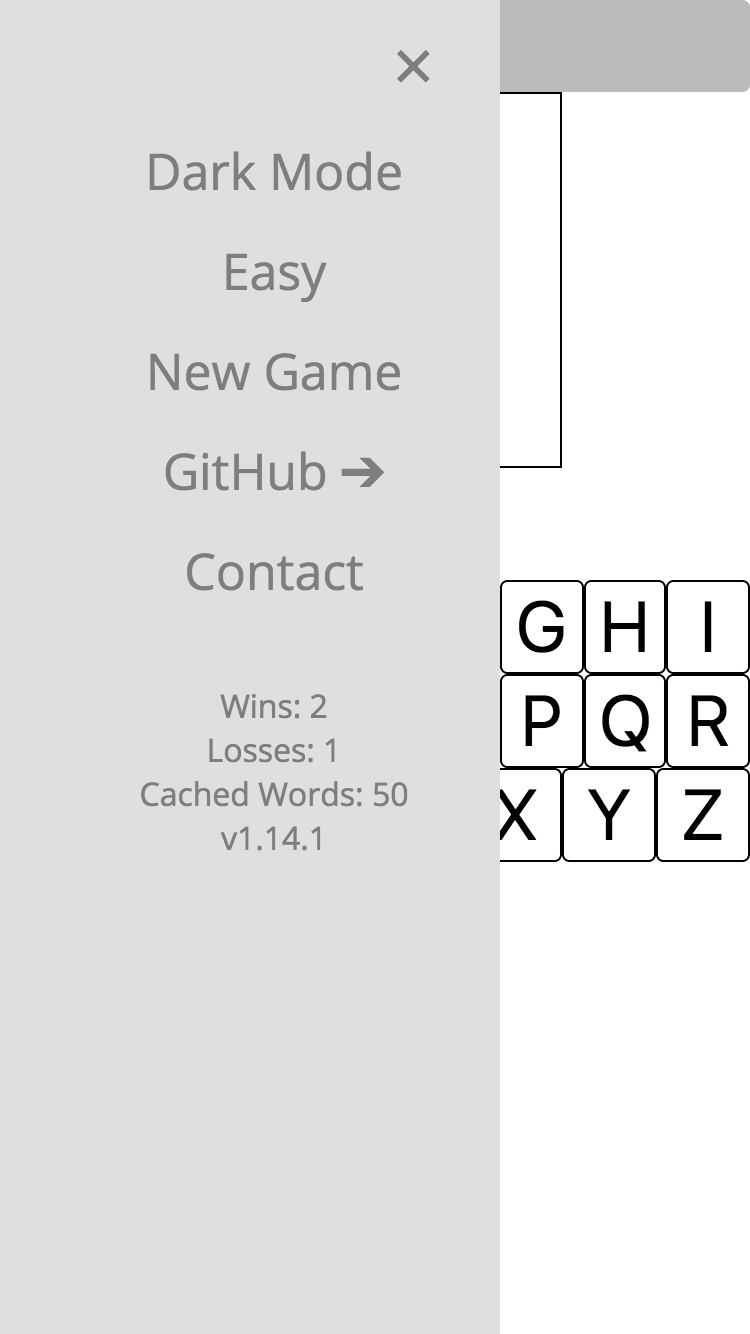
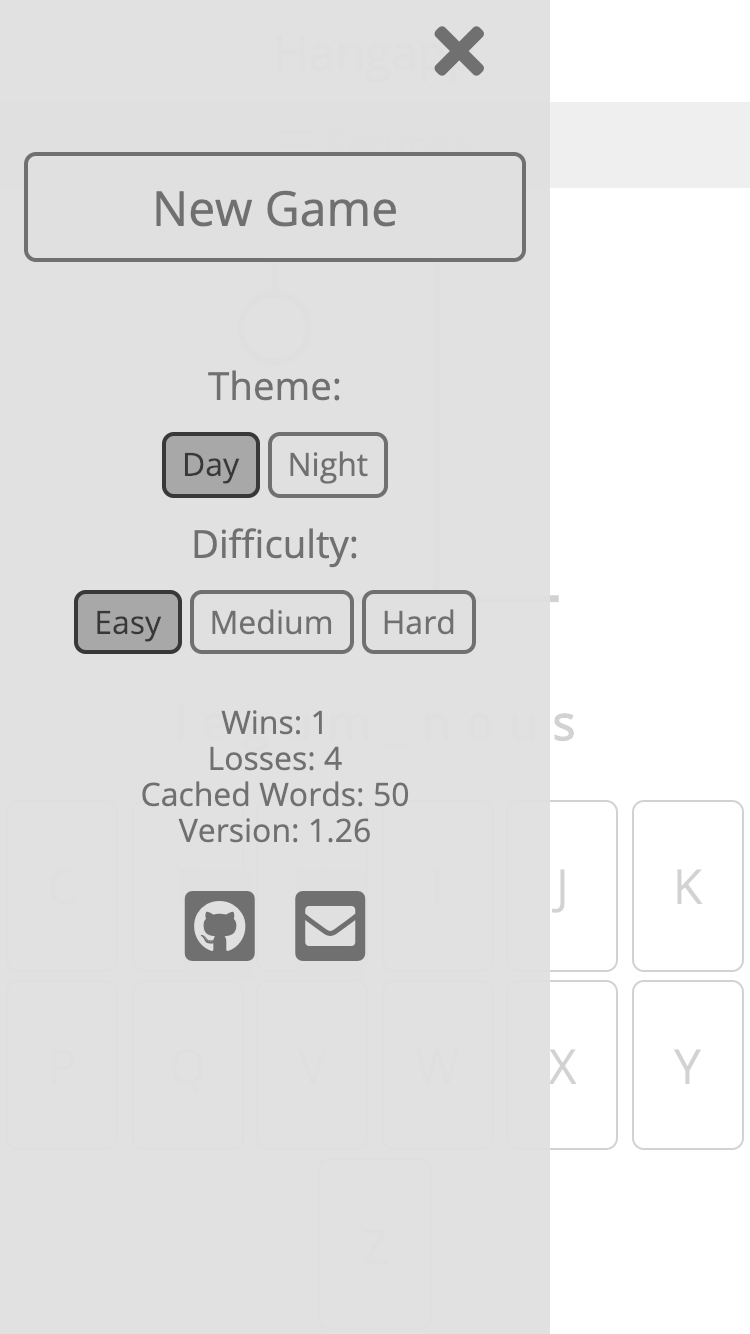
Finishing touches
- Update screenshots
- Increase font size on the modal

diff --git a/assets/js/game.js b/assets/js/game.js
@@ -44,6 +44,9 @@ document.addEventListener('DOMContentLoaded', () => {
 			return false;
 		},
 		choose: (d) => {
+			if(Data.difficulty === d) {
+				return true;
+			}
 			if(hasGuessed()) {
 				if(Difficulty.confirmChange()) {
 					Data.difficulty = d;
@@ -118,7 +121,7 @@ document.addEventListener('DOMContentLoaded', () => {
 		let letter = '';
 
 		if(event.key === undefined) {
-			if(event.target.tagName === 'BUTTON') {
+			if(event.target.tagName === 'BUTTON' && event.target.textContent != 'New Game') {
 				letter = event.target.textContent.toLowerCase();
 			}
 		} else {
@@ -303,7 +306,7 @@ document.addEventListener('DOMContentLoaded', () => {
 		}
 
 		let wrongGuess = 0;
-		if(!isGuessedLetter(letter)) {
+		if(letter.length < 2 && !isGuessedLetter(letter)) {
 			Data.guessedLetters.push(letter);
 			for(let t = 0; t < Data.answer.length; t += 1) {
 				if(letter === Data.answer[t]) {

diff --git a/assets/css/style.css b/assets/css/style.css
@@ -541,25 +541,24 @@ svg {
 @media screen and (min-width: 568px) and (orientation: landscape) {
   .modal-content {
     width: 70%;
-    font-size: 20px;
   }
 }
 @media (min-width: 768px) {
   .modal-content {
     width: 60%;
+    max-width: 800px;
   }
+}
+
+.modal-content,
+.modal-content button {
+  font-size: 1.2em;
 }
 
 .modal-content button {
   width: auto;
   margin: 0 auto;
   padding: 0.5em 1em;
-  font-size: 16px;
-}
-@media screen and (min-width: 568px) and (orientation: landscape) {
-  .modal-content button {
-    font-size: 20px;
-  }
 }
 
 .game-screen {

diff --git a/assets/scss/components/_grid.scss b/assets/scss/components/_grid.scss
@@ -18,21 +18,22 @@
   padding: 0 1em;
   @media screen and (min-width: 568px) and (orientation: landscape) {
     width: 70%;
-    font-size: 20px;
   }
   @media (min-width: 768px) {
     width: 60%;
+    max-width: 800px;
   }
+}
+
+.modal-content,
+.modal-content button {
+  font-size: 1.2em;
 }
 
 .modal-content button {
 	width: auto;
 	margin: 0 auto;
 	padding: 0.5em 1em;
-	font-size: 16px;
-  @media screen and (min-width: 568px) and (orientation: landscape) {
-    font-size: 20px;
-  }
 }
 
 .game-screen {

diff --git a/sw.js b/sw.js
@@ -1,4 +1,4 @@
-const CACHE_NAME = 'v1.26';
+const CACHE_NAME = 'v1.27';
 
 var urlsToCache = [
 	'index.html',
